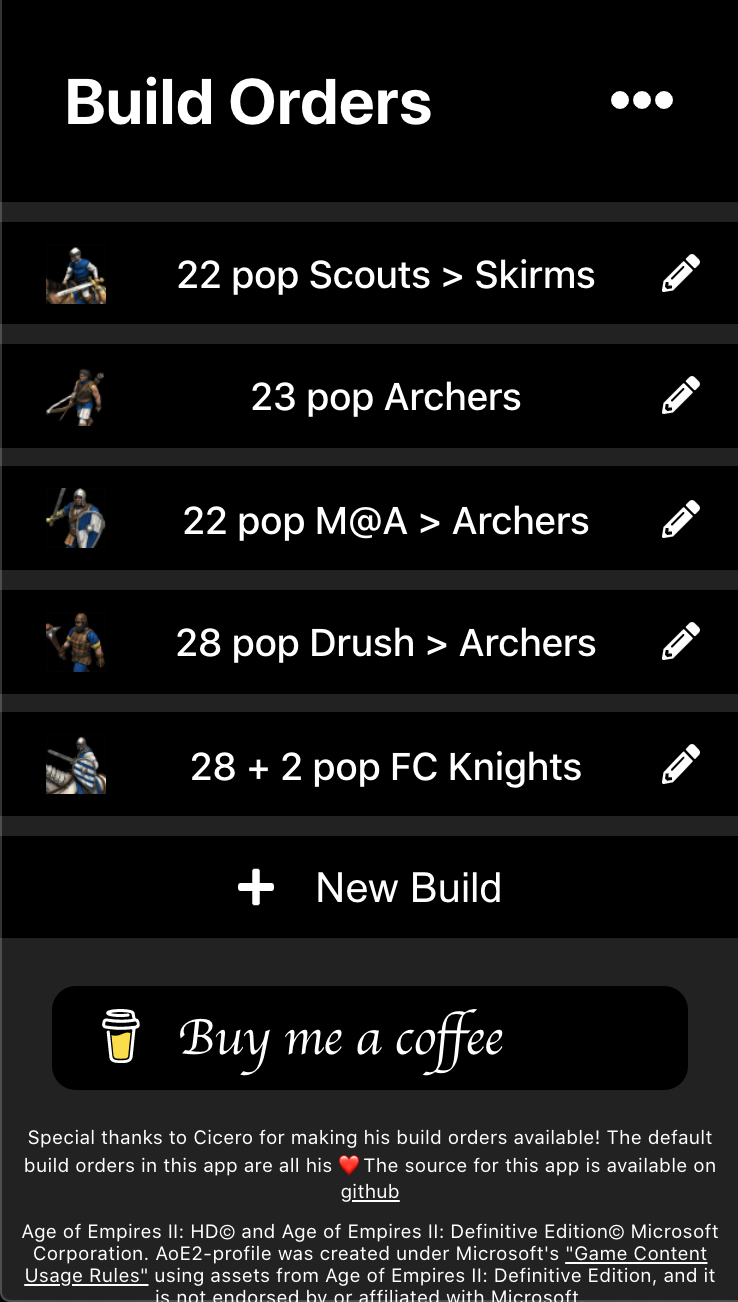
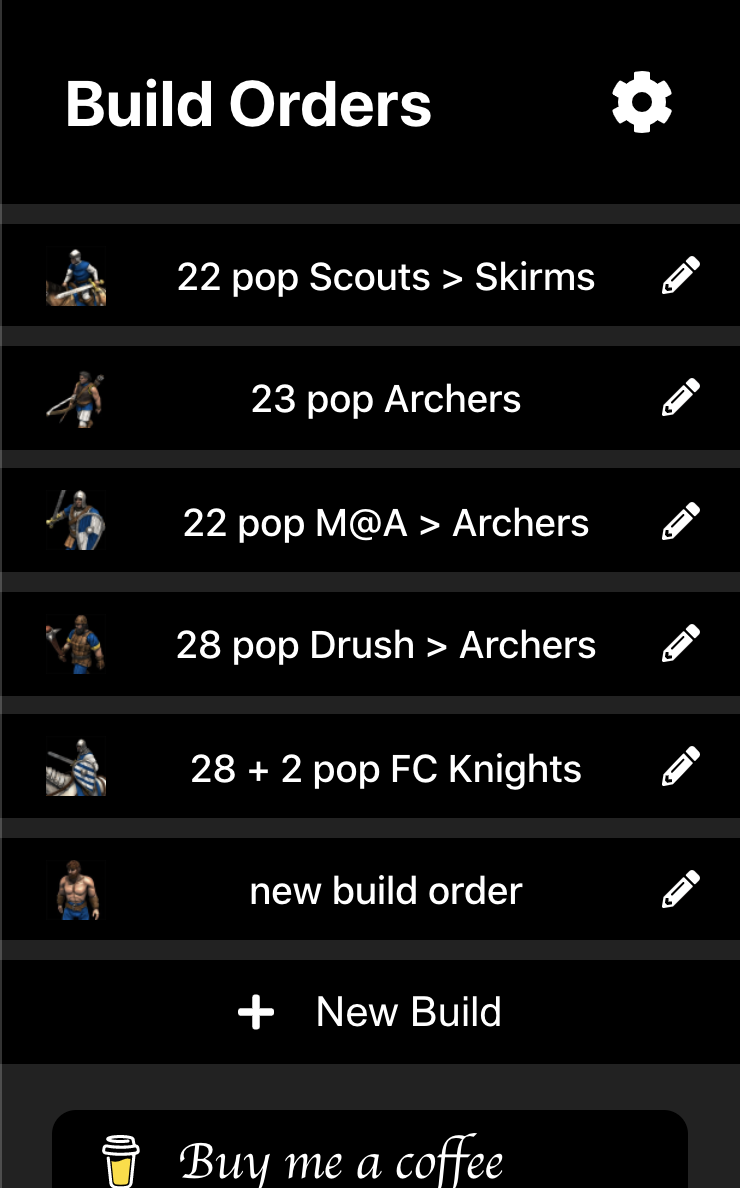
updated docs, removed main menu and added its content to settings

diff --git a/frontend/src/Settings.tsx b/frontend/src/Settings.tsx
@@ -1,8 +1,10 @@
 import React, {useState} from "react";
-import {faTimes, faCheck} from "@fortawesome/free-solid-svg-icons";
+import {faTimes, faCheck, faSync} from "@fortawesome/free-solid-svg-icons";
 import {FontAwesomeIcon} from "@fortawesome/react-fontawesome";
 import { useHistory } from "react-router-dom";
 import Switch from "react-switch";
+import {defaultBuildOrders} from "./defaultBuildOrders";
+import {getBuildOrders} from "./BuildOrderList";
 
 
 const Settings:React.FC = () => {
@@ -22,8 +24,20 @@ const Settings:React.FC = () => {
     setSettings(newSettings);
   }
 
+  const handleRestoreDefaults = () => {
+    const buildOrders = getBuildOrders();
+    Object.assign(buildOrders, defaultBuildOrders);
+    localStorage.setItem('buildOrders', JSON.stringify(buildOrders));
+    history.push('/');
+  }
+
+
   return <div className="settings">
     <h1>Settings</h1>
+
+    <div className="version">
+      v.1.0.0
+    </div>
 
     <div className={`property number`}>
       <label>Countdown from</label>
@@ -41,14 +55,19 @@ const Settings:React.FC = () => {
       <label>Read Steps Out Loud</label>
       <Switch onChange={() => updateSetting("readStepsOutLoud", !settings.readStepsOutLoud)} checked={!!(settings.readStepsOutLoud == null?true:settings.readStepsOutLoud)} />
     </div>
-    <button className="cancel" onClick={cancelSettings}>
-      <FontAwesomeIcon icon={faTimes}/>
-      <span>Cancel</span>
+    <button onClick={handleRestoreDefaults}>
+      <FontAwesomeIcon icon={faSync}/>
+      <span>Restore Default Builds</span>
     </button>
     <button onClick={saveSettings}>
       <FontAwesomeIcon icon={faCheck}/>
       <span>Save</span>
     </button>
+    <button className="cancel" onClick={cancelSettings}>
+      <FontAwesomeIcon icon={faTimes}/>
+      <span>Cancel</span>
+    </button>
+
   </div>;
 }
 

diff --git a/frontend/src/BuildOrderList.tsx b/frontend/src/BuildOrderList.tsx
@@ -2,14 +2,12 @@ import {IBuildOrder} from "./types";
 import React, {useState} from "react";
 import BuildOrderIcon from "./StepIcon";
 import {FontAwesomeIcon} from "@fortawesome/react-fontawesome";
-import {faEllipsisH, faPencilAlt, faPlus} from "@fortawesome/free-solid-svg-icons";
+import {faCog, faPencilAlt, faPlus} from "@fortawesome/free-solid-svg-icons";
 import { useHistory } from "react-router-dom";
 import { v4 as uuidv4 } from 'uuid';
 import {computeEndTimes, computeResourceChanges, shuffleVillagerGenders, unfoldSubsteps} from "./BuildOrder";
 
 import {defaultBuildOrders} from "./defaultBuildOrders";
-import {useClickOutside} from "./hooks";
-import MainMenu from "./MainMenu";
 
 const ensureBuildOrders = () => {
   const availableBuildOrders = getBuildOrders();
@@ -76,10 +74,6 @@ function BuildOrderList() {
     history.push(`/build/${build.id}`);
   }
   const [buildOrders] = useState(getBuildOrders());
-  const [showMenu, setShowMenu] = useState(false);
-  const menuRef = useClickOutside(() => {
-    setShowMenu(false);
-  })
 
   const list = Object.values(buildOrders).map((build) => {
     return <div key={build.id} className="buildorder list-item" onClick={() => goToBuild(build)}>
@@ -98,11 +92,8 @@ function BuildOrderList() {
     <div className="buildorder-list">
       <h1>
         <span>Build Orders</span>
-        <div className="menu" ref={menuRef} onClick={() => setShowMenu(!showMenu)}>
-          <FontAwesomeIcon icon={faEllipsisH}/>
-          {showMenu?
-            <MainMenu hideMenu={(() => setShowMenu(false))}/>
-            :null}
+        <div className="menu" onClick={() => history.push('/settings')}>
+          <FontAwesomeIcon icon={faCog}/>
         </div>
       </h1>
       {list}

diff --git a/frontend/src/App.scss b/frontend/src/App.scss
@@ -993,3 +993,9 @@ label.resource-changes {
   align-items: center;
   justify-content: center;
 }
+
+.version {
+  font-size: 0.8em;
+  text-align: right;
+  padding: 10px;
+}

diff --git a/README.md b/README.md
@@ -129,3 +129,9 @@ Some icons count as resources and will be taken into account for resource comput
 - **wood:** `wood` or `tree`
 - **gold:** `gold`
 - **stone:** `stone`
+
+## Offline Capabilities
+Once the application is installed on the home screen, it can run in offline mode. However, that means that it will only show updated versions of the app once the application has been closed completely and restarted.
+All of your builds are stored on your device itself (very small files, don't worry). If you want to share your builds, you can export them and share the exported files.
+
+If you want to make sure your app has been updated, go to settings and check whether the version number increased.
